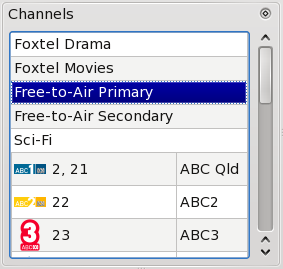
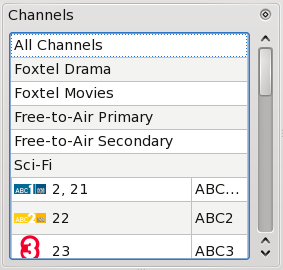
Make "All Channels" a standard channel group

Changed region(s): [[0.0, 0.0, 0.9894, 0.9517], [0.9046, 0.3271, 0.9611, 0.3866], [0.9046, 0.119, 0.9611, 0.2082]]

diff --git a/help/en/viewing.html b/help/en/viewing.html
@@ -54,7 +54,7 @@ specific time of day:<p>
 <img src="view_periods.png">
 </center><p>
 
-<b>All Channels</b> from the <b>View</b> menu will show the
+<b>All Channels</b> from the <b>Channels</b> pane will show the
 programmes for the current day for all channels in columns:<p>
 
 <center>

diff --git a/help/en/groups.html b/help/en/groups.html
@@ -20,6 +20,9 @@ the list of channel groups:<p>
 <img src="groups_edit.png">
 </center><p>
 
+<b>All Channels</b> is a permanently available group that does
+not need to be configured specially.<p>
+
 <a href="index.html">Return to main index</a>
 
 </body>

diff --git a/src/mainwindow.cpp b/src/mainwindow.cpp
@@ -156,8 +156,6 @@ MainWindow::MainWindow(QWidget *parent)
             this, SLOT(updateTimePeriods()));
     connect(actionTickShow, SIGNAL(triggered()),
             this, SLOT(tickShow()));
-    connect(actionMultiChannel, SIGNAL(toggled(bool)),
-            this, SLOT(multiChannelChanged()));
     connect(actionWebSearch, SIGNAL(triggered()),
             this, SLOT(webSearch()));
     connect(actionAbout, SIGNAL(triggered()), this, SLOT(about()));
@@ -186,7 +184,6 @@ MainWindow::MainWindow(QWidget *parent)
     //actionShowFailedMatches->setChecked(settings.value(QLatin1String("failed"), false).toBool());
     actionShowFailedMatches->setChecked(true);
     action7DayOutlook->setChecked(settings.value(QLatin1String("outlook7days"), false).toBool());
-    actionMultiChannel->setChecked(settings.value(QLatin1String("allchannels"), false).toBool());
     settings.endGroup();
 
     toolBar->addSeparator();
@@ -242,8 +239,7 @@ MainWindow::~MainWindow()
     settings.remove(QLatin1String("failed"));
     settings.setValue(QLatin1String("outlook7days"),
                       action7DayOutlook->isChecked());
-    settings.setValue(QLatin1String("allchannels"),
-                      actionMultiChannel->isChecked());
+    settings.remove(QLatin1String("allchannels"));
     settings.remove(QLatin1String("filteroptions"));
     settings.endGroup();
 
@@ -296,8 +292,7 @@ void MainWindow::dateChanged()
 void MainWindow::channelChanged()
 {
     QList<TvChannel *> channels;
-    if (!actionMultiChannel->isChecked())
-        channels = selectedChannels();
+    channels = selectedChannels();
     if (channels.size() != 0) {
         TvChannel *channel = channels.at(0);
         QDate first, last;
@@ -386,12 +381,6 @@ void MainWindow::sevenDayOutlookChanged()
 {
     selectView();
     updateTimePeriods();
-}
-
-void MainWindow::multiChannelChanged()
-{
-    channels->setEnabled(!actionMultiChannel->isChecked());
-    channelChanged();
 }
 
 void MainWindow::editChannels()
@@ -536,8 +525,7 @@ void MainWindow::channelIconsChanged()
 {
     channels->resizeRowsToContents();
     channels->resizeColumnsToContents();
-    if (actionMultiChannel->isChecked())
-        programmeView->updateIcons();
+    programmeView->updateIcons();
 }
 
 void MainWindow::refineChannels()
@@ -693,9 +681,7 @@ TvBookmark::MatchOptions MainWindow::matchOptions() const
 
 void MainWindow::setDay(const QList<TvChannel *> &channels, const QDate &date, TvChannel *changedChannel, bool request)
 {
-    if (actionMultiChannel->isChecked()) {
-        updateMultiChannelProgrammes(date, m_channelList->activeChannels(), request);
-    } else if (channels.size() == 1) {
+    if (channels.size() == 1) {
         TvChannel *channel = channels.at(0);
         if (!changedChannel || channel == changedChannel)
             updateProgrammes(channel, date, request);
@@ -869,7 +855,7 @@ QList<TvChannel *> MainWindow::selectedChannels() const
 
 void MainWindow::recalculateChannelSpans()
 {
-    int count = m_channelModel->groupCount();
+    int count = m_channelModel->groupCount() + 1; // Extra for "All Channels"
     channels->clearSpans();
     while (count-- > 0)
         channels->setSpan(count, 0, 1, TvChannelModel::ColumnCount);

diff --git a/src/tvchannelmodel.cpp b/src/tvchannelmodel.cpp
@@ -37,13 +37,15 @@ TvChannelModel::~TvChannelModel()
 {
 }
 
+// Index 0 is always "All Channels".  Indexes 1..N are the N groups.
+// The remaining indexes are individual channels.
 QModelIndex TvChannelModel::index(int row, int column, const QModelIndex &) const
 {
     if (column < 0 || column >= ColumnCount)
         return QModelIndex();
-    if (row >= 0 && row < m_groups.size())
+    if (row >= 0 && row <= m_groups.size())
         return createIndex(row, column);
-    int chrow = row - m_groups.size();
+    int chrow = row - m_groups.size() - 1;
     if (chrow < 0 || chrow >= m_visibleChannels.size())
         return QModelIndex();
     return createIndex(row, column, m_visibleChannels.at(chrow));
@@ -61,7 +63,7 @@ int TvChannelModel::columnCount(const QModelIndex &) const
 
 int TvChannelModel::rowCount(const QModelIndex &) const
 {
-    return m_groups.size() + m_visibleChannels.size();
+    return m_groups.size() + m_visibleChannels.size() + 1;
 }
 
 QVariant TvChannelModel::data(const QModelIndex &index, int role) const
@@ -69,13 +71,18 @@ QVariant TvChannelModel::data(const QModelIndex &index, int role) const
     if (!index.isValid())
         return QVariant();
     int row = index.row();
-    if (row >= 0 && row < m_groups.size()) {
-        TvChannelGroup *group = m_groups.at(row);
+    if (!row) {
+        if (role == Qt::DisplayRole)
+            return tr("All Channels");
+        return QVariant();
+    }
+    if (row > 0 && row <= m_groups.size()) {
+        TvChannelGroup *group = m_groups.at(row - 1);
         if (role == Qt::DisplayRole)
             return group->name();
         return QVariant();
     }
-    row -= m_groups.size();
+    row -= m_groups.size() + 1;
     if (row < 0 || row >= m_visibleChannels.size())
         return QVariant();
     TvChannel *channel = m_visibleChannels.at(row);
@@ -118,14 +125,16 @@ QList<TvChannel *> TvChannelModel::channelsForIndex(const QModelIndex &index) co
     TvChannel *channel = static_cast<TvChannel *>(index.internalPointer());
     if (channel) {
         channels.append(channel);
-    } else {
-        TvChannelGroup *group = m_groups.at(index.row());
+    } else if (index.row() != 0) {
+        TvChannelGroup *group = m_groups.at(index.row() - 1);
         QStringList ids = group->channelIds();
         for (int posn = 0; posn < ids.size(); ++posn) {
             channel = m_channelList->channel(ids.at(posn));
             if (channel)
                 channels.append(channel);
         }
+    } else {
+        return m_visibleChannels;
     }
     return channels;
 }
@@ -133,8 +142,8 @@ QList<TvChannel *> TvChannelModel::channelsForIndex(const QModelIndex &index) co
 TvChannelGroup *TvChannelModel::groupForIndex(const QModelIndex &index) const
 {
     int row = index.row();
-    if (row >= 0 && row < m_groups.size())
-        return m_groups.at(row);
+    if (row > 0 && row <= m_groups.size())
+        return m_groups.at(row - 1);
     else
         return 0;
 }

diff --git a/src/mainwindow.h b/src/mainwindow.h
@@ -61,7 +61,6 @@ private Q_SLOTS:
 
     void updateTimePeriods();
     void sevenDayOutlookChanged();
-    void multiChannelChanged();
 
     void editChannels();
     void editChannelGroups();
